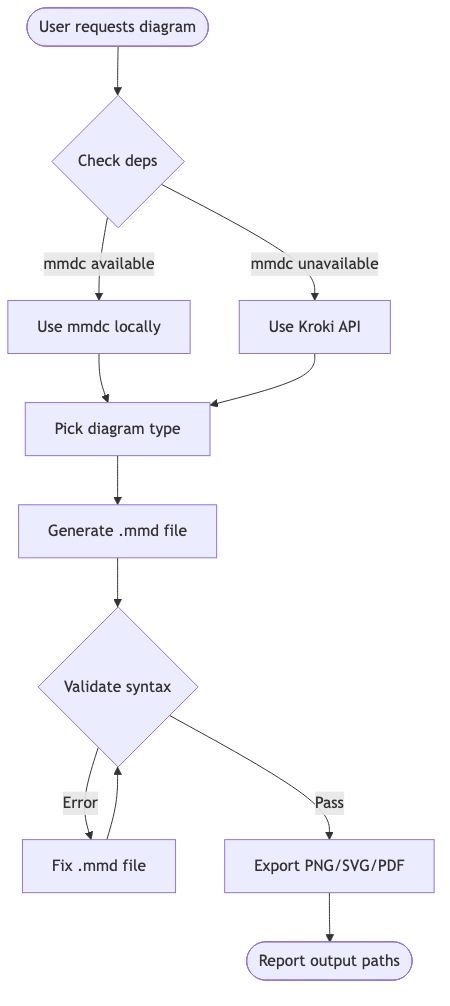
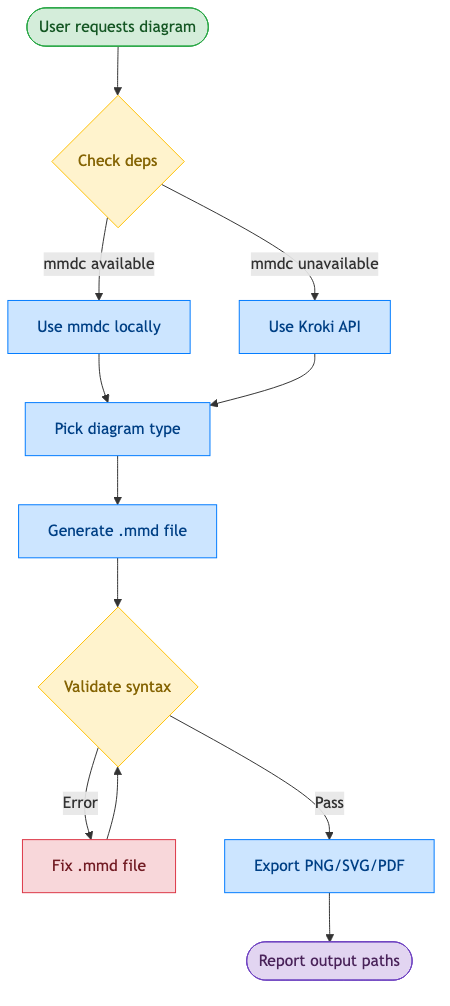
Add color design to workflow diagrams
- Add classDef styling with semantic colors:
  - Green: input nodes
  - Blue: process nodes
  - Yellow: decision nodes
  - Red: warning/error nodes
  - Purple: output nodes
- Update both EN and CN workflow diagrams
- Add color legend to README

diff --git a/README.md b/README.md
@@ -118,25 +118,26 @@ This skill follows a validation-first workflow:
 
 ```mermaid
 flowchart TD
-  Start([User requests diagram]) --> CheckDeps{Check deps}
-
-  CheckDeps -->|mmdc available| UseMmdc[Use mmdc locally]
-  CheckDeps -->|mmdc unavailable| UseKroki[Use Kroki API]
-
+  Start([User requests diagram]):::input --> CheckDeps{Check deps}:::decision
+  CheckDeps -->|mmdc available| UseMmdc[Use mmdc locally]:::process
+  CheckDeps -->|mmdc unavailable| UseKroki[Use Kroki API]:::process
   UseMmdc --> PickType
   UseKroki --> PickType
-
-  PickType[Pick diagram type] --> Generate[Generate .mmd file]
-
-  Generate --> Validate{Validate syntax}
-
-  Validate -->|Error| Fix[Fix .mmd file]
+  PickType[Pick diagram type]:::process --> Generate[Generate .mmd file]:::process
+  Generate --> Validate{Validate syntax}:::decision
+  Validate -->|Error| Fix[Fix .mmd file]:::warning
   Fix --> Validate
+  Validate -->|Pass| Export[Export PNG/SVG/PDF]:::process
+  Export --> Report([Report output paths]):::output
 
-  Validate -->|Pass| Export[Export PNG/SVG/PDF]
-
-  Export --> Report([Report output paths])
+  classDef input fill:#d4edda,stroke:#28a745,color:#155724
+  classDef process fill:#cce5ff,stroke:#007bff,color:#004085
+  classDef decision fill:#fff3cd,stroke:#ffc107,color:#856404
+  classDef warning fill:#f8d7da,stroke:#dc3545,color:#721c24
+  classDef output fill:#e2d5f1,stroke:#6f42c1,color:#4a235a
 ```
+
+**Color legend:** 🟢 Input | 🔵 Process | 🟡 Decision | 🔴 Warning | 🟣 Output
 
 </details>
 

diff --git a/README_CN.md b/README_CN.md
@@ -118,25 +118,26 @@ Claude 会：
 
 ```mermaid
 flowchart TD
-  Start([用户请求图表]) --> CheckDeps{检查依赖}
-
-  CheckDeps -->|mmdc 可用| UseMmdc[使用 mmdc 本地导出]
-  CheckDeps -->|mmdc 不可用| UseKroki[使用 Kroki API]
-
+  Start([用户请求图表]):::input --> CheckDeps{检查依赖}:::decision
+  CheckDeps -->|mmdc 可用| UseMmdc[使用 mmdc 本地导出]:::process
+  CheckDeps -->|mmdc 不可用| UseKroki[使用 Kroki API]:::process
   UseMmdc --> PickType
   UseKroki --> PickType
-
-  PickType[选择图表类型] --> Generate[生成 .mmd 文件]
-
-  Generate --> Validate{验证语法}
-
-  Validate -->|错误| Fix[修复 .mmd 文件]
+  PickType[选择图表类型]:::process --> Generate[生成 .mmd 文件]:::process
+  Generate --> Validate{验证语法}:::decision
+  Validate -->|错误| Fix[修复 .mmd 文件]:::warning
   Fix --> Validate
+  Validate -->|通过| Export[导出 PNG/SVG/PDF]:::process
+  Export --> Report([报告输出路径]):::output
 
-  Validate -->|通过| Export[导出 PNG/SVG/PDF]
-
-  Export --> Report([报告输出路径])
+  classDef input fill:#d4edda,stroke:#28a745,color:#155724
+  classDef process fill:#cce5ff,stroke:#007bff,color:#004085
+  classDef decision fill:#fff3cd,stroke:#ffc107,color:#856404
+  classDef warning fill:#f8d7da,stroke:#dc3545,color:#721c24
+  classDef output fill:#e2d5f1,stroke:#6f42c1,color:#4a235a
 ```
+
+**颜色图例：** 🟢 输入 | 🔵 处理 | 🟡 决策 | 🔴 警告 | 🟣 输出
 
 </details>
 
